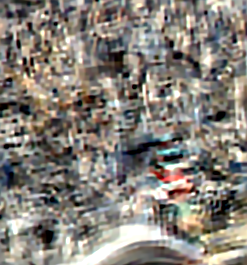
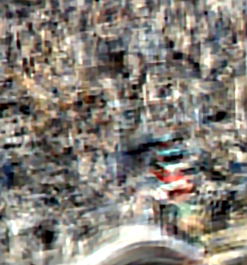
k refine update

diff --git a/hai_deblur_test1/deconv_main.m b/hai_deblur_test1/deconv_main.m
@@ -31,7 +31,7 @@ thresholdR = 1;
 thresholdS = 2;
 
 
-B=imgaussfilt(B,1);
+% B=imgaussfilt(B,1.6);
 
 retv=ret.^[0:maxitr];
 
@@ -93,8 +93,8 @@ iter=100;      % iterations
           I_y(1:2,:) =0;I_y(end-1:end,:) = 0;I_y(:,1:2) =0;I_y(:,end-1:end) = 0;
                        
           if (any(I_x(:))==0) || (any(I_y(:))==0)
-              thresholdR = thresholdR/1.2;
-              thresholdS = thresholdS/1.2;
+              thresholdR = thresholdR/1.1;
+              thresholdS = thresholdS/1.1;
               continue;
           end
           
@@ -106,7 +106,6 @@ iter=100;      % iterations
           ks(ks(:)<0) = 0;
           ks = ks./sum(ks(:));
           kernel=ks;         
-          
           
           
           lambda_pixel = 4e-3;
@@ -129,16 +128,16 @@ iter=100;      % iterations
           end
           dt = dt/1.1;
           lambda_texture = lambda_texture/1.1;
-          thresholdR = thresholdR/1.2;
-          thresholdS = thresholdS/1.2;
+          thresholdR = thresholdR/1.1;
+          thresholdS = thresholdS/1.1;
           i=i+1;
       end
       
       if (itr>1)
           kernel=resizeKer(kernel,1/ret,k1list(itr-1),k2list(itr-1));
-          kernel = adjust_psf_center(kernel);
-          kernel(kernel<0) = 0;
-          kernel = kernel./sum(kernel(:));
+%           kernel = adjust_psf_center(kernel);
+%           kernel(kernel<0) = 0;
+%           kernel = kernel./sum(kernel(:));
       end
       
   end
@@ -148,14 +147,54 @@ latent = [];
 
 %% kernel refine
 
-% get epsilon_s
-% sorted_k = sort(kernel(:));
-% dif_sorted_k = diff(sorted_k);
+%%%%get epsilon_s
+% threshold for epsilon_s
+[width,height] = size(kernel);
+k = kernel;
+
+% threshD = norm(kernel,inf)/(2*width*it);
+
+for it=1:5
+    
+threshD = norm(k,inf)/(2*width*it);
+
+sorted_k = sort(k(:));
+nonzero_index = find(sorted_k>0);
+first_nonzero_index = nonzero_index(1);
+
+diff_sorted_k = diff(sorted_k);
+all_index = find(diff_sorted_k(first_nonzero_index:end)>threshD);
+
+if isempty(all_index)
+   continue; 
+end
+
+epsilon_s = sorted_k(all_index(1)+first_nonzero_index);
+
+mask_s = heaviside_function(k,epsilon_s);
+mask_s_ = ~mask_s;
+
+s = mask_s .* k;
+s_ = mask_s_ .* k;
+
+% set up options for the kernel estimation
+
+k_prev = k;
+figure,imagesc(k);
+
+k = psf_refine_irls(Bx, By, I_x, I_y, s_, 2, size(kernel));
+k = adjust_psf_center(k);
+k(k(:)<0) = 0;
+k = k./sum(k(:));
+epsilon_k = norm(k-k_prev)/norm(k_prev);
 
 
+figure,imagesc(s);
+figure,imagesc(s_);
 
+end
 
-
+kernel = k;
 %% final deblur
 fprintf('image deblurring...\n');
 for c= 1:size(ori_B,3)

diff --git a/hai_deblur_test1/psf_refine_irls.m b/hai_deblur_test1/psf_refine_irls.m
@@ -1,0 +1,35 @@
+function psf = psf_refine_irls(blurred_x, blurred_y, latent_x, latent_y, s_, weight, psf_size)
+
+  %2013/5/31  %%%%%%%%%%%%%%%%%%%%%%%%%
+    latent_xf = fft2(latent_x);
+    latent_yf = fft2(latent_y);
+    blurred_xf = fft2(blurred_x);
+    blurred_yf = fft2(blurred_y);
+
+    b_f = conj(latent_xf).* blurred_xf + conj(latent_yf).* blurred_yf;
+    b = real(otf2psf(b_f, psf_size));
+
+    p.m = conj(latent_xf).* latent_xf + conj(latent_yf).* latent_yf;
+
+    p.img_size = size(blurred_xf);
+    p.psf_size = psf_size;
+    p.lambda = weight;
+    p.s_ = s_;
+
+    psf = ones(psf_size) / prod(psf_size);
+    
+    for iter = 1:1
+        psf_prev = psf;
+        p.weights = p.lambda * (max(norm(psf_prev,1),1e-5)) * p.s_;                
+        psf = conjgrad(psf, b, 20, 1e-5, @compute_Ax, p);
+
+        psf(psf < max(psf(:))*0.05) = 0;
+        psf = psf / sum(psf(:));
+    end
+end
+
+function y = compute_Ax(x, p)
+    x_f = psf2otf(x, p.img_size);
+    y = otf2psf(p.m .* x_f, p.psf_size);
+    y = y + p.weights .* x;
+end

diff --git a/11_normalized_sparsity_fergus/pcg_kernel_irls_conv.m b/11_normalized_sparsity_fergus/pcg_kernel_irls_conv.m
@@ -28,7 +28,8 @@ if nargin == 3
   fprintf('Input options not defined - really no reg/constraints on the kernel?\n');
 end
 
-lambda = opts.lambda;
+% lambda = opts.lambda;
+lambda = 1;
 pcg_tol = opts.pcg_tol;
 pcg_its = opts.pcg_its;
   

diff --git a/hai_deblur_test1/test_kernel_refine.m b/hai_deblur_test1/test_kernel_refine.m
@@ -10,7 +10,6 @@ k = kernel;
 
 for it=1:5
 
-
 threshD = 7 * norm(k,inf)/(2*width*height*5);
 % threshD = norm(kernel,inf)/(2*width*it);
 
